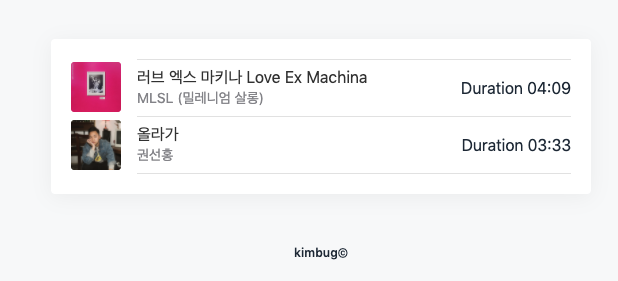
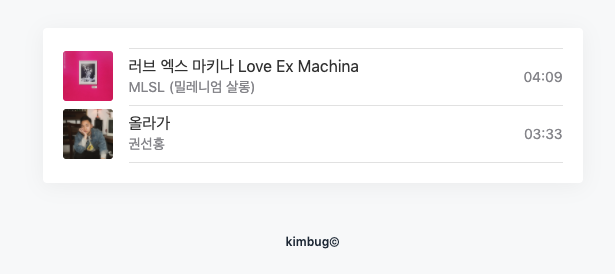
2020-04-24

diff --git a/02_HTML PRACTICE/02-13/02-13.html b/02_HTML PRACTICE/02-13/02-13.html
@@ -3,11 +3,12 @@
   <head>
     <meta charset="UTF-8" />
     <meta name="viewport" content="width=device-width, initial-scale=1.0" />
-    <title>Document</title>
+    <meta http-equiv="X-UA-Compatible" content="ie=edge" />
+    <title>Music Player - 김버그의 버그 없는 HTML</title>
     <link rel="stylesheet" href="./styles.css" />
   </head>
   <body>
-    <ol class="music-player">
+    <ul class="music-player">
       <li class="music-play-item">
         <img
           src="https://m.media-amazon.com/images/I/814Rp76DidL._SS500_.jpg"
@@ -17,49 +18,40 @@
         />
         <div class="music-info">
           <div class="music-info-detail">
-            <h1>
-              <span lang="ko">러브 엑스 마키나</span>
-              Love Ex Machina
-            </h1>
-            <strong>
+            <h1 lang="ko">러브 엑스 마키나 Love Ex Machina</h1>
+            <strong lang="ko">
               MLSL (밀레니엄 살롱)
             </strong>
           </div>
-
-          <span>
-            <span class="sr-nonly">Duration</span>
+          <span class="music-playtime">
+            <span class="sr-only">Duration</span>
             04:09
           </span>
         </div>
-
-        <audio class="music-audio" src="./assets/music-1.mp3"></audio>
+        <audio src="./assets/music-1.mp3" class="music-audio"></audio>
       </li>
       <li class="music-play-item">
         <img
           src="http://image.genie.co.kr/Y/IMAGE/IMG_ARTIST/080/660/591/80660591_1560403300605_1_600x600.JPG"
           alt="올라가"
-          lang="ko"
           class="music-album-cover"
         />
         <div class="music-info">
           <div class="music-info-detail">
-            <h1>
-              <span lang="ko">올라가</span>
-            </h1>
-            <strong>
+            <h1 lang="ko">올라가</h1>
+            <strong lang="ko">
               권선홍
             </strong>
           </div>
-
-          <span>
-            <span class="sr-nonly">Duration</span>
+          <span class="music-playtime">
+            <span class="sr-only">Duration</span>
             03:33
           </span>
         </div>
-
-        <audio class="music-audio" src="./assets/music-2.mp3"></audio>
+        <audio src="./assets/music-2.mp3" class="music-audio"></audio>
       </li>
-    </ol>
+    </ul>
+
     <script src="./app.js"></script>
   </body>
 </html>

diff --git a/00_MD_FILES/02-02.md b/00_MD_FILES/02-02.md
@@ -231,72 +231,52 @@
 
 ![](images/02-02/01-07.png)
 
-```html
-<body>
-  <table class="inbox">
-    <thead class="sr-only">
-      <tr>
-        <th scope="col">Actions</th>
-        <th scope="col">Sender</th>
-        <th scope="col">Title</th>
-        <th scope="col">Timesamp</th>
-      </tr>
-    </thead>
-    <tbody>
-      <tr class="unread">
-        <td>
-          <div class="inbox-actions">
-            <div class="inbox-checkbox">
-              <input type="checkbox" id="inbox-1" />
-              <label for="inbox-1" class="sr-only">Select this email</label>
-            </div>
-            <button type="button" class="inbox-star">
-              <span class="sr-only">Add to favorites</span>
-            </button>
-          </div>
-        </td>
-        <td>Goorm Edu</td>
-        <td>
-          <a href="#">
-            <strong class="sr-only">UnRead: </strong>
-            <strong>Rate your course: FRONTEND 101 WITH KIMBUG</strong>
-            <span>
-              - Woohyeon. How’s everything going? We want to hear your opnion
-              on...</span
-            >
-          </a>
-        </td>
-        <td>3:34 PM</td>
-      </tr>
-      <tr class="read">
-        <td>
-          <div class="inbox-actions">
-            <div class="inbox-checkbox">
-              <input type="checkbox" id="inbox-1" />
-              <label for="inbox-1" class="sr-only">Select this email</label>
-            </div>
-            <button type="button" class="inbox-star">
-              <span class="sr-only">Add to favorites</span>
-            </button>
-          </div>
-        </td>
-        <td>Goorm Edu</td>
-        <td>
-          <a href="#">
-            <strong class="sr-only">Read: </strong>
-            <strong>Rate your course: FRONTEND 101 WITH KIMBUG</strong>
-            <span>
-              - Woohyeon. How’s everything going? We want to hear your opnion
-              on...</span
-            >
-          </a>
-        </td>
-        <td>3:34 PM</td>
-      </tr>
-    </tbody>
-  </table>
-  <script src="./app.js"></script>
-</body>
+```javascript
+<ul class="music-player">
+  <li class="music-play-item">
+    <img
+      src="https://m.media-amazon.com/images/I/814Rp76DidL._SS500_.jpg"
+      alt="러브 엑스 마키나"
+      lang="ko"
+      class="music-album-cover"
+    />
+    <div class="music-info">
+      <div class="music-info-detail">
+        <h1 lang="ko">러브 엑스 마키나 Love Ex Machina</h1>
+        <strong lang="ko">
+          MLSL (밀레니엄 살롱)
+        </strong>
+      </div>
+      <span class="music-playtime">
+        <span class="sr-only">Duration</span>
+        04:09
+      </span>
+    </div>
+    <audio src="./assets/music-1.mp3" class="music-audio"></audio>
+  </li>
+  <li class="music-play-item">
+    <img
+      src="http://image.genie.co.kr/Y/IMAGE/IMG_ARTIST/080/660/591/80660591_1560403300605_1_600x600.JPG"
+      alt="올라가"
+      class="music-album-cover"
+    />
+    <div class="music-info">
+      <div class="music-info-detail">
+        <h1 lang="ko">올라가</h1>
+        <strong lang="ko">
+          권선홍
+        </strong>
+      </div>
+      <span class="music-playtime">
+        <span class="sr-only">Duration</span>
+        03:33
+      </span>
+    </div>
+    <audio src="./assets/music-2.mp3" class="music-audio"></audio>
+  </li>
+</ul>
+
+<script src="./app.js"></script>
 ```
 
 ### [문제 01-08] 다음을 마크업 하여라.
